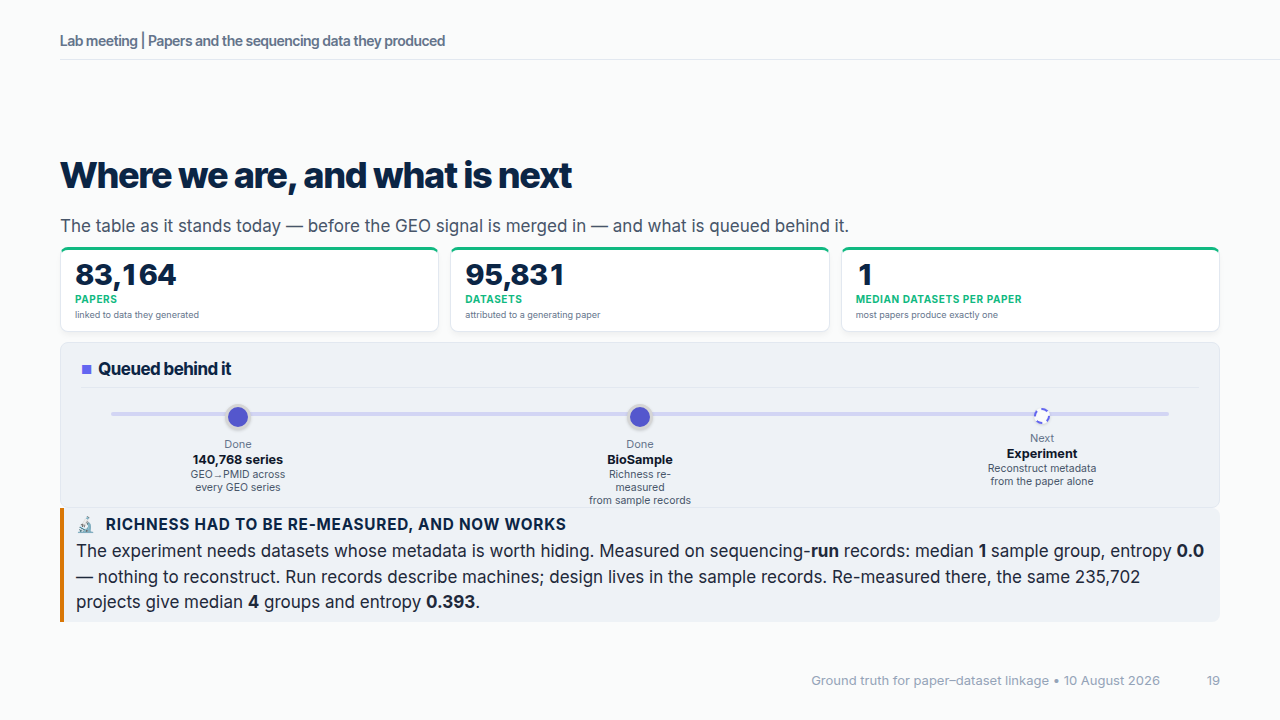
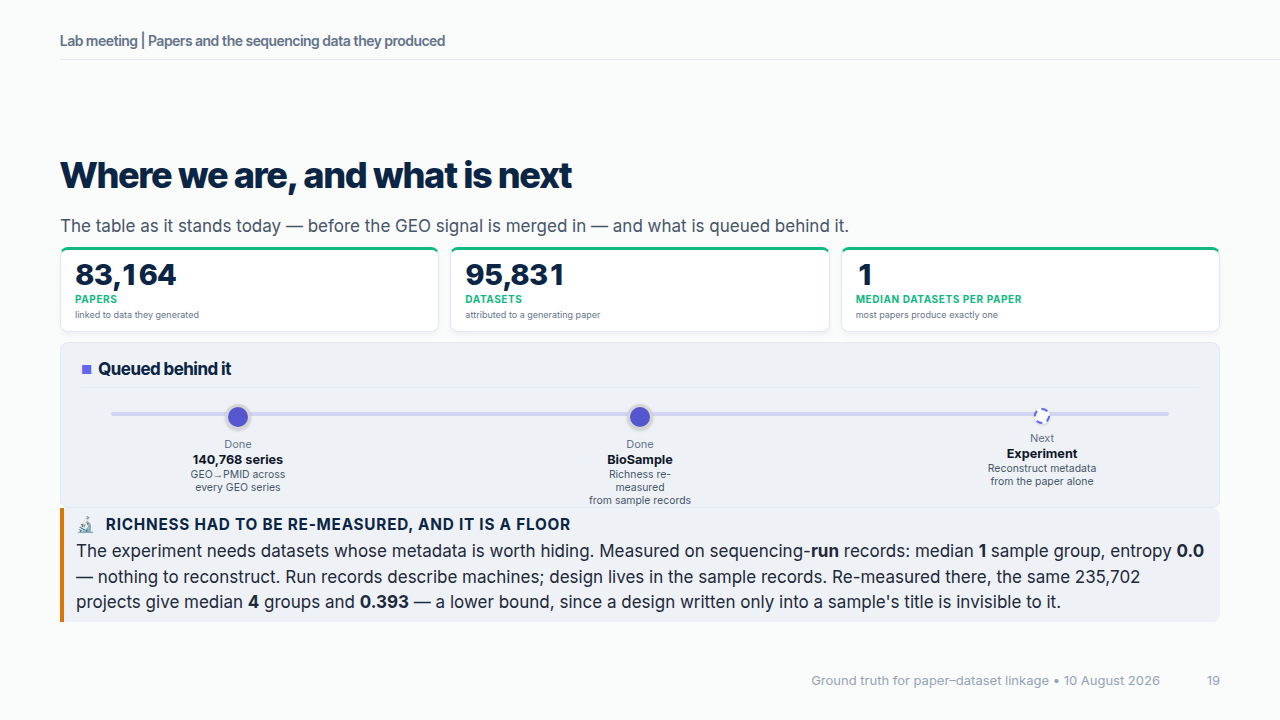
State richness as a lower bound rather than a solved measure
The callout claimed the rebuilt metric "now works". It does, but it scores
only what a submitter recorded as a structured attribute: two of five
hand-checked projects encode their design solely in the sample title or
alias and score one group, and EBI-registered projects run at a median of 2
groups against 5 for NCBI-registered, which is a checklist difference rather
than a biological one.

A deck with a slide about being misled by its own numbers should not present
this one without its limit. Speaker notes carry the answer to the obvious
challenge - group count correlates 0.75 with sample count, but a variant
dropping within-project-unique keys still leaves a median of 3.

Claude-Session: https://claude.ai/code/session_0132So3vgYGTUnnnkLxtwVmc

Changed region(s): [[0.2812, 0.825, 0.8438, 0.8556], [0.3438, 0.7028, 0.4375, 0.7333]]

diff --git a/paper_sra_linkage_Aug_2026/slides.html b/paper_sra_linkage_Aug_2026/slides.html
@@ -216,7 +216,7 @@
 
 <h1 id="where-we-are-and-what-is-next">Where we are, and what is next</h1>
 <p>The table as it stands today — before the GEO signal is merged in — and what is queued behind it.</p>
-<div class="stats accent-emerald tight" style="--cols:3"><div class="stat"><span class="stat-value">83,164</span><span class="stat-label">papers</span><span class="stat-note">linked to data they generated</span></div><div class="stat"><span class="stat-value">95,831</span><span class="stat-label">datasets</span><span class="stat-note">attributed to a generating paper</span></div><div class="stat"><span class="stat-value">1</span><span class="stat-label">median datasets per paper</span><span class="stat-note">most papers produce exactly one</span></div></div><div class="timeline"><div class="track accent-indigo"><div class="track-header"><div class="track-title">Queued behind it</div></div><div class="track-lane"><div class="node node-lg" style="--x:12%"><div class="node-dot"></div><div class="node-info">Done<span class="node-value">140,768 series</span><span class="node-note">GEO→PMID across<br />every GEO series</span></div></div><div class="node node-lg" style="--x:50%"><div class="node-dot"></div><div class="node-info">Done<span class="node-value">BioSample</span><span class="node-note">Richness re-measured<br />from sample records</span></div></div><div class="node node-open" style="--x:88%"><div class="node-dot"></div><div class="node-info">Next<span class="node-value">Experiment</span><span class="node-note">Reconstruct metadata<br />from the paper alone</span></div></div></div></div></div><div class="callout accent-amber callout-slim"><div class="callout-title"><span>🔬</span><span>Richness had to be re-measured, and now works</span></div><div class="callout-body"><p>The experiment needs datasets whose metadata is worth hiding. Measured on sequencing-<strong>run</strong> records: median <strong>1</strong> sample group, entropy <strong>0.0</strong> — nothing to reconstruct. Run records describe machines; design lives in the sample records. Re-measured there, the same 235,702 projects give median <strong>4</strong> groups and entropy <strong>0.393</strong>.</p>
+<div class="stats accent-emerald tight" style="--cols:3"><div class="stat"><span class="stat-value">83,164</span><span class="stat-label">papers</span><span class="stat-note">linked to data they generated</span></div><div class="stat"><span class="stat-value">95,831</span><span class="stat-label">datasets</span><span class="stat-note">attributed to a generating paper</span></div><div class="stat"><span class="stat-value">1</span><span class="stat-label">median datasets per paper</span><span class="stat-note">most papers produce exactly one</span></div></div><div class="timeline"><div class="track accent-indigo"><div class="track-header"><div class="track-title">Queued behind it</div></div><div class="track-lane"><div class="node node-lg" style="--x:12%"><div class="node-dot"></div><div class="node-info">Done<span class="node-value">140,768 series</span><span class="node-note">GEO→PMID across<br />every GEO series</span></div></div><div class="node node-lg" style="--x:50%"><div class="node-dot"></div><div class="node-info">Done<span class="node-value">BioSample</span><span class="node-note">Richness re-measured<br />from sample records</span></div></div><div class="node node-open" style="--x:88%"><div class="node-dot"></div><div class="node-info">Next<span class="node-value">Experiment</span><span class="node-note">Reconstruct metadata<br />from the paper alone</span></div></div></div></div></div><div class="callout accent-amber callout-slim"><div class="callout-title"><span>🔬</span><span>Richness had to be re-measured, and it is a floor</span></div><div class="callout-body"><p>The experiment needs datasets whose metadata is worth hiding. Measured on sequencing-<strong>run</strong> records: median <strong>1</strong> sample group, entropy <strong>0.0</strong> — nothing to reconstruct. Run records describe machines; design lives in the sample records. Re-measured there, the same 235,702 projects give median <strong>4</strong> groups and <strong>0.393</strong> — a lower bound, since a design written only into a sample's title is invisible to it.</p>
 </div></div><footer>Ground truth for paper–dataset linkage • 10 August 2026</footer>
 </section>
 </foreignObject></svg><svg data-marpit-svg="" viewBox="0 0 1280 720"><foreignObject width="1280" height="720"><section id="20" data-paginate="true" data-header="Lab meeting | Papers and the sequencing data they produced" data-footer="Ground truth for paper–dataset linkage • 10 August 2026" data-class="compact middle" data-theme="deckkit" lang="en-US" class="compact middle" data-marpit-pagination="20" style="--paginate:true;--header:Lab meeting | Papers and the sequencing data they produced;--footer:Ground truth for paper–dataset linkage • 10 August 2026;--class:compact middle;--theme:deckkit;" data-marpit-pagination-total="20" data-size="16:9">
@@ -243,6 +243,18 @@ belonged to, and GEO kept it. Expect the 2.3%-vs-88% question from the floor —
 the note answers it, so read it out rather than waiting to be asked.</p></div><div class="bespoke-marp-note" data-index="14" tabindex="0"><p>The null distribution matters: pair papers with datasets they have nothing to do
 with, and only 0.8% clear the threshold. Common surnames do not manufacture
 matches.</p></div><div class="bespoke-marp-note" data-index="17" tabindex="0"><p>Say this out loud rather than letting someone find it. The 7/7 and 8/8 are the
-weakest numbers in the talk and the most likely to be quoted back.</p></div><div class="bespoke-marp-note" data-index="19" tabindex="0"><p>If people remember one thing: mentioning is not producing, and the evidence that
+weakest numbers in the talk and the most likely to be quoted back.</p></div><div class="bespoke-marp-note" data-index="18" tabindex="0"><p>Expect: &quot;isn't that just sample count?&quot; Partly — group count and sample count
+correlate at 0.75. But a stricter variant that drops keys unique within a
+project still leaves a median of 3 groups, so it is not merely size restated.
+Give the number rather than waving it off.
+
+Five projects were checked by hand. Three matched exactly, including a 2x2 of
+cell line by treatment. Two scored 1 group because the design was written only
+in the sample title or alias. That also explains an archive skew: EBI-registered
+projects median 2 groups against 5 for NCBI-registered — submission checklists,
+not biology.
+
+83,164 here is deliberately the pre-merge number, and the lead says so. If asked
+why it is not 138,192, that is the projection from the previous slide.</p></div><div class="bespoke-marp-note" data-index="19" tabindex="0"><p>If people remember one thing: mentioning is not producing, and the evidence that
 settles it usually lives in the archive rather than in the paper.</p></div><script>/*!! License: https://unpkg.com/@marp-team/marp-cli@4.5.0/lib/bespoke.js.LICENSE.txt */
 !function(){"use strict";function e(e){return e&&e.__esModule&&Object.prototype.hasOwnProperty.call(e,"default")?e.default:e}var t,n,r=(n||(n=1,t={from:function(e,t){var n,r=1===(e.parent||e).nodeType?e.parent||e:document.querySelector(e.parent||e),o=[].filter.call("string"==typeof e.slides?r.querySelectorAll(e.slides):e.slides||r.children,function(e){return"SCRIPT"!==e.nodeName}),i={},a=function(e,t){return(t=t||{}).index=o.indexOf(e),t.slide=e,t},s=function(e,t){i[e]=(i[e]||[]).filter(function(e){return e!==t})},l=function(e,t){return(i[e]||[]).reduce(function(e,n){return e&&!1!==n(t)},!0)},c=function(e,t){o[e]&&(n&&l("deactivate",a(n,t)),n=o[e],l("activate",a(n,t)))},d=function(e,t){var r=o.indexOf(n)+e;l(e>0?"next":"prev",a(n,t))&&c(r,t)},u={off:s,on:function(e,t){return(i[e]||(i[e]=[])).push(t),s.bind(null,e,t)},fire:l,slide:function(e,t){if(!arguments.length)return o.indexOf(n);l("slide",a(o[e],t))&&c(e,t)},next:d.bind(null,1),prev:d.bind(null,-1),parent:r,slides:o,destroy:function(e){l("destroy",a(n,e)),i={}}};return(t||[]).forEach(function(e){e(u)}),n||c(0),u}}),t),o=e(r);const i=document.body,a=(...e)=>history.replaceState(...e),s="",l="presenter",c="next",d="overview",u=["",l,d,c],f="bespoke-marp-",m=`data-${f}`,g=(e,{protocol:t,host:n,pathname:r,hash:o}=location)=>{const i=e.toString();return`${t}//${n}${r}${i?"?":""}${i}${o}`},p=()=>i.dataset.bespokeView,v=e=>new URLSearchParams(location.search).get(e),h=(e,t={})=>{const n={location,setter:a,...t},r=new URLSearchParams(n.location.search);for(const t of Object.keys(e)){const n=e[t];"string"==typeof n?r.set(t,n):r.delete(t)}try{n.setter({...window.history.state??{}},"",g(r,n.location))}catch(e){console.error(e)}},w=(()=>{const e="bespoke-marp";try{return localStorage.setItem(e,e),localStorage.removeItem(e),!0}catch{return!1}})(),y=e=>{try{return localStorage.getItem(e)}catch{return null}},b=(e,t)=>{try{return localStorage.setItem(e,t),!0}catch{return!1}},k=e=>{try{return localStorage.removeItem(e),!0}catch{return!1}},x=(e,t)=>{const n="aria-hidden";t?e.setAttribute(n,"true"):e.removeAttribute(n)},E=e=>{e.parent.classList.add(`${f}parent`),e.slides.forEach(e=>e.classList.add(`${f}slide`)),e.on("activate",t=>{const n=`${f}active`,r=t.slide,o=r.classList,i=!o.contains(n);if(e.slides.forEach(e=>{e.classList.remove(n),x(e,!0)}),o.add(n),x(r,!1),i){const e=`${n}-ready`;o.add(e),document.body.clientHeight,o.remove(e)}})},$=e=>{let t=0,n=0;Object.defineProperty(e,"fragments",{enumerable:!0,value:e.slides.map(e=>[null,...e.querySelectorAll("[data-marpit-fragment]")])});const r=r=>void 0!==e.fragments[t][n+r],o=(r,o)=>{t=r,n=o,e.fragments.forEach((e,t)=>{e.forEach((e,n)=>{if(null==e)return;const i=t<r||t===r&&n<=o;e.setAttribute(`${m}fragment`,(i?"":"in")+"active");const a=`${m}current-fragment`;t===r&&n===o?e.setAttribute(a,"current"):e.removeAttribute(a)})}),e.fragmentIndex=o;const i={slide:e.slides[r],index:r,fragments:e.fragments[r],fragmentIndex:o};e.fire("fragment",i)};e.on("next",({fragment:i=!0})=>{if(i){if(r(1))return o(t,n+1),!1;const i=t+1;e.fragments[i]&&o(i,0)}else{const r=e.fragments[t].length;if(n+1<r)return o(t,r-1),!1;const i=e.fragments[t+1];i&&o(t+1,i.length-1)}}),e.on("prev",({fragment:i=!0})=>{if(r(-1)&&i)return o(t,n-1),!1;const a=t-1;e.fragments[a]&&o(a,e.fragments[a].length-1)}),e.on("slide",({index:t,fragment:n})=>{let r=0;if(void 0!==n){const o=e.fragments[t];if(o){const{length:e}=o;r=-1===n?e-1:Math.min(Math.max(n,0),e-1)}}o(t,r)}),o(0,0)},L=document,S=()=>!(!L.fullscreenEnabled&&!L.webkitFullscreenEnabled),P=()=>!(!L.fullscreenElement&&!L.webkitFullscreenElement),_=e=>{e.fullscreen=()=>{S()&&(async()=>{P()?(L.exitFullscreen||L.webkitExitFullscreen)?.call(L):((e=L.body)=>{(e.requestFullscreen||e.webkitRequestFullscreen)?.call(e)})()})()},document.addEventListener("keydown",t=>{"f"!==t.key&&"F11"!==t.key||t.altKey||t.ctrlKey||t.metaKey||!S()||(e.fullscreen(),t.preventDefault())})},O=`${f}inactive`,T=(e=2e3)=>({parent:t,fire:n})=>{const r=t.classList,o=e=>n(`marp-${e?"":"in"}active`);let i;const a=()=>{i&&clearTimeout(i),i=setTimeout(()=>{r.add(O),o()},e),r.contains(O)&&(r.remove(O),o(!0))};for(const e of["mousedown","mousemove","touchend"])document.addEventListener(e,a);setTimeout(a,0)},I=["AUDIO","BUTTON","INPUT","SELECT","TEXTAREA","VIDEO"],M=e=>{e.parent.addEventListener("keydown",e=>{if(!e.target)return;const t=e.target;(I.includes(t.nodeName)||"true"===t.contentEditable)&&e.stopPropagation()})},A=e=>{window.addEventListener("load",()=>{for(const t of e.slides){const e=t.querySelector("marp-auto-scaling, [data-auto-scaling], [data-marp-fitting]");t.setAttribute(`${m}load`,e?"":"hideable")}})},C=({interval:e=250}={})=>t=>{document.addEventListener("keydown",e=>{if(" "===e.key&&e.shiftKey)t.prev();else if("ArrowLeft"===e.key||"ArrowUp"===e.key||"PageUp"===e.key)t.prev({fragment:!e.shiftKey});else if(" "!==e.key||e.shiftKey)if("ArrowRight"===e.key||"ArrowDown"===e.key||"PageDown"===e.key)t.next({fragment:!e.shiftKey});else if("End"===e.key)t.slide(t.slides.length-1,{fragment:-1});else{if("Home"!==e.key)return;t.slide(0)}else t.next();e.preventDefault()});let n,r,o=0;t.parent.addEventListener("wheel",i=>{let a=!1;const s=(e,t)=>{e&&(a=a||((e,t)=>((e,t)=>{const n="X"===t?"Width":"Height";return e[`client${n}`]<e[`scroll${n}`]})(e,t)&&((e,t)=>{const{overflow:n}=e,r=e[`overflow${t}`];return"auto"===n||"scroll"===n||"auto"===r||"scroll"===r})(getComputedStyle(e),t))(e,t)),e?.parentElement&&s(e.parentElement,t)};if(0!==i.deltaX&&s(i.target,"X"),0!==i.deltaY&&s(i.target,"Y"),a)return;i.preventDefault();const l=Math.sqrt(i.deltaX**2+i.deltaY**2);if(void 0!==i.wheelDelta){if(void 0===i.webkitForce&&Math.abs(i.wheelDelta)<40)return;if(i.deltaMode===i.DOM_DELTA_PIXEL&&l<4)return}else if(i.deltaMode===i.DOM_DELTA_PIXEL&&l<12)return;r&&clearTimeout(r),r=setTimeout(()=>{n=0},e);const c=Date.now()-o<e,d=l<=n;if(n=l,c||d)return;let u;(i.deltaX>0||i.deltaY>0)&&(u="next"),(i.deltaX<0||i.deltaY<0)&&(u="prev"),u&&(t[u](),o=Date.now())})},D=(e=`.${f}osc`)=>{const t=document.querySelector(e);if(!t)return()=>{};const n=(e,n)=>{t.querySelectorAll(`[${m}osc=${JSON.stringify(e)}]`).forEach(n)};if(S()||n("fullscreen",e=>e.style.display="none"),!w){const e=(e,t)=>{e.disabled=!0,e.title=`${t} is disabled due to restricted localStorage.`};n("presenter",t=>e(t,"Presenter view")),n("overview",t=>e(t,"Overview view"))}return e=>{t.addEventListener("click",t=>{if(t.target instanceof HTMLElement){const{bespokeMarpOsc:n}=t.target.dataset;n&&t.target.blur();const r={fragment:!t.shiftKey};"next"===n?e.next(r):"prev"===n?e.prev(r):"fullscreen"===n?e?.fullscreen():"presenter"===n?e.openPresenterView():"overview"===n&&e.toggleOverviewView()}}),e.parent.appendChild(t),e.on("activate",({index:t})=>{n("page",n=>n.textContent=`Page ${t+1} of ${e.slides.length}`)}),e.on("fragment",({index:t,fragments:r,fragmentIndex:o})=>{n("prev",e=>e.disabled=0===t&&0===o),n("next",n=>n.disabled=t===e.slides.length-1&&o===r.length-1)}),e.on("marp-active",()=>x(t,!1)),e.on("marp-inactive",()=>x(t,!0)),S()&&(e=>{for(const t of["","webkit"])L.addEventListener(t+"fullscreenchange",e)})(()=>n("fullscreen",e=>e.classList.toggle("exit",S()&&P())))}},N=e=>{if(e.syncKey&&"string"==typeof e.syncKey)return!0;throw new Error("The current instance of Bespoke.js is incompatible with Marp bespoke sync plugin.")},B=(e={})=>{const t=e.key||window.history.state?.marpBespokeSyncKey||Math.random().toString(36).slice(2),n=`bespoke-marp-sync-${t}`;var r;r={marpBespokeSyncKey:t},h({},{setter:(e,...t)=>a({...e,...r},...t)});const o=()=>{const e=y(n);return e?JSON.parse(e):Object.create(null)},i=e=>{const t=o(),r={...t,...e(t)};return b(n,JSON.stringify(r)),r},s=()=>{window.removeEventListener("pageshow",s),i(e=>({reference:(e.reference||0)+1}))};return e=>{s(),Object.defineProperty(e,"syncKey",{value:t,enumerable:!0});let r=!0;setTimeout(()=>{e.on("fragment",e=>{r&&i(()=>({index:e.index,fragmentIndex:e.fragmentIndex}))})},0),window.addEventListener("storage",t=>{if(t.key===n&&t.oldValue&&t.newValue){const n=JSON.parse(t.oldValue),o=JSON.parse(t.newValue);if(n.index!==o.index||n.fragmentIndex!==o.fragmentIndex)try{r=!1,e.slide(o.index,{fragment:o.fragmentIndex,forSync:!0})}finally{r=!0}}});const a=()=>{const{reference:e}=o();void 0===e||e<=1?k(n):i(()=>({reference:e-1}))};window.addEventListener("pagehide",e=>{e.persisted&&window.addEventListener("pageshow",s),a()}),e.on("destroy",a)}},K=e=>{w&&document.addEventListener("keydown",t=>{("o"!==t.key||t.altKey||t.ctrlKey||t.metaKey)&&"Escape"!==t.key||(t.preventDefault(),e())})};let q=null;const V=({closeOnSelect:e=!0}={})=>t=>{N(t);const n=n=>{const r=(()=>{if(!q||!q.isConnected){q=document.createElement("div"),q.className=`${f}overview`,q.inert=!0;const n=document.createElement("iframe");n.src=(()=>{const n=new URLSearchParams(location.search);return n.set("view","overview"),n.set("sync",t.syncKey),e&&n.set("closeOnSelect","1"),g(n)})(),q.append(n),document.body.append(q)}return q})(),o=n??!r.dataset.open;setTimeout(()=>{if(r.dataset.open=o?"1":"",r.inert=!o,t.skipTransition=o,o){const e=r.querySelector("iframe");try{e?.contentWindow?.focus()}catch{e?.focus()}}else window.focus()},0)};Object.defineProperties(t,{toggleOverviewView:{enumerable:!0,value:n}}),window.addEventListener("message",e=>{e.origin===window.origin&&"closeOverview"===e.data&&n(!1)}),K(n)},j=e=>{const{title:t}=document;document.title="[Overview]"+(t?` - ${t}`:"");const n=!!v("closeOnSelect"),r=()=>{window.parent.postMessage("closeOverview","null"===window.origin?"*":window.origin)};if(e.slides.forEach((t,o)=>{t.tabIndex=0;const i=()=>{e.slide(o,{fragment:-1}),n&&r()};t.addEventListener("click",i),t.addEventListener("keydown",e=>{"Enter"!==e.key&&" "!==e.key||(e.preventDefault(),i())})}),window.addEventListener("keydown",t=>{const n=e.slide(),r=t=>{const r=t=>{const n=e.slides[t].getBoundingClientRect();return[Math.round((n.left+n.right)/2),Math.round((n.top+n.bottom)/2)]};let o=null,i=n;do{const e=r(i);if(o){if(Math.abs(e[0]-o[0])<2)return i}else o=e;i+=t}while(i>=0&&i<e.slides.length);return n};if("ArrowLeft"===t.key)e.slide(Math.max(n-1,0),{fragment:-1});else if("ArrowRight"===t.key)e.slide(Math.min(n+1,e.slides.length-1),{fragment:-1});else if("ArrowUp"===t.key)e.slide(r(-1),{fragment:-1});else if("ArrowDown"===t.key)e.slide(r(1),{fragment:-1});else if("End"===t.key)e.slide(e.slides.length-1,{fragment:-1});else{if("Home"!==t.key)return;e.slide(0,{fragment:-1})}t.preventDefault();const o=e.slide();e.slides[o]?.focus?.(),e.slides[o]?.scrollIntoView?.({behavior:"smooth",block:"nearest"})}),e.on("slide",({index:t})=>{e.slides[t]?.scrollIntoView?.({behavior:"smooth",block:"nearest"})}),window.parent!==window){K(r);const e=document.createElement("header");e.className=`${f}overview-header`;const t=document.createElement("button");t.className=`${f}overview-close`,t.type="button",t.title="Close overview",t.textContent=t.title,t.addEventListener("click",r),e.append(t),document.body.prepend(e)}},F=()=>{const e=p();return{[s]:V(),[l]:V({closeOnSelect:!1}),[d]:j}[e]},U=e=>{window.addEventListener("message",t=>{if(t.origin!==window.origin)return;const[n,r]=t.data.split(":");if("navigate"===n){const[t,n]=r.split(",");let o=Number.parseInt(t,10),i=Number.parseInt(n,10)+1;i>=e.fragments[o].length&&(o+=1,i=0),e.slide(o,{fragment:i})}})};var R,X,H,W,J,Y,z,G={exports:{}},Q=(R||(R=1,G.exports=(X=["area","base","br","col","command","embed","hr","img","input","keygen","link","meta","param","source","track","wbr"],H=function(e){return String(e).replace(/[&<>"']/g,function(e){return"&"+W[e]+";"})},W={"&":"amp","<":"lt",">":"gt",'"':"quot","'":"apos"},J="dangerouslySetInnerHTML",Y={className:"class",htmlFor:"for"},z={},function(e,t){var n=[],r="";t=t||{};for(var o=arguments.length;o-- >2;)n.push(arguments[o]);if("function"==typeof e)return t.children=n.reverse(),e(t);if(e){if(r+="<"+e,t)for(var i in t)!1!==t[i]&&null!=t[i]&&i!==J&&(r+=" "+(Y[i]?Y[i]:H(i))+'="'+H(t[i])+'"');r+=">"}if(-1===X.indexOf(e)){if(t[J])r+=t[J].__html;else for(;n.length;){var a=n.pop();if(a)if(a.pop)for(var s=a.length;s--;)n.push(a[s]);else r+=!0===z[a]?a:H(a)}r+=e?"</"+e+">":""}return z[r]=!0,r})),G.exports),Z=e(Q);const ee=({children:e})=>Z(null,null,...e),te=`${f}presenter-`,ne={container:`${te}container`,dragbar:`${te}dragbar-container`,next:`${te}next`,nextContainer:`${te}next-container`,noteContainer:`${te}note-container`,noteWrapper:`${te}note-wrapper`,noteButtons:`${te}note-buttons`,infoContainer:`${te}info-container`,infoPageArea:`${te}info-page-area`,infoPage:`${te}info-page`,infoPagePrev:`${te}info-page-prev`,infoPageNext:`${te}info-page-next`,noteButtonsBigger:`${te}note-bigger`,noteButtonsSmaller:`${te}note-smaller`,infoTime:`${te}info-time`,infoTimer:`${te}info-timer`},re=e=>{const{title:t}=document;document.title="[Presenter view]"+(t?` - ${t}`:"");const n={},r=e=>(n[e]=n[e]||document.querySelector(`.${e}`),n[e]);document.body.appendChild((e=>{const t=document.createElement("div");return t.className=ne.container,t.appendChild(e),t.insertAdjacentHTML("beforeend",Z(ee,null,Z("div",{class:ne.nextContainer},Z("iframe",{class:ne.next,src:"?view=next"})),Z("div",{class:ne.dragbar}),Z("div",{class:ne.noteContainer},Z("div",{class:ne.noteWrapper}),Z("div",{class:ne.noteButtons},Z("button",{class:ne.noteButtonsSmaller,tabindex:"-1",title:"Smaller notes font size"},"Smaller notes font size"),Z("button",{class:ne.noteButtonsBigger,tabindex:"-1",title:"Bigger notes font size"},"Bigger notes font size"))),Z("div",{class:ne.infoContainer},Z("div",{class:ne.infoPageArea},Z("button",{class:ne.infoPagePrev,tabindex:"-1",title:"Previous"},"Previous"),Z("button",{class:ne.infoPage}),Z("button",{class:ne.infoPageNext,tabindex:"-1",title:"Next"},"Next")),Z("time",{class:ne.infoTime,title:"Current time"}),Z("time",{class:ne.infoTimer,title:"Timer"})))),t})(e.parent)),(e=>{let t=!1;r(ne.dragbar).addEventListener("mousedown",()=>{t=!0,r(ne.dragbar).classList.add("active")}),window.addEventListener("mouseup",()=>{t=!1,r(ne.dragbar).classList.remove("active")}),window.addEventListener("mousemove",e=>{if(!t)return;const n=e.clientX/document.documentElement.clientWidth*100;r(ne.container).style.setProperty("--bespoke-marp-presenter-split-ratio",`${Math.max(0,Math.min(100,n))}%`)}),r(ne.nextContainer).addEventListener("click",()=>e.next());const n=r(ne.next),o=(i=n,(e,t)=>i.contentWindow?.postMessage(`navigate:${e},${t}`,"null"===window.origin?"*":window.origin));var i;n.addEventListener("load",()=>{r(ne.nextContainer).classList.add("active"),o(e.slide(),e.fragmentIndex),e.on("fragment",({index:e,fragmentIndex:t})=>o(e,t))});const a=document.querySelectorAll(".bespoke-marp-note");a.forEach(e=>{e.addEventListener("keydown",e=>e.stopPropagation()),r(ne.noteWrapper).appendChild(e)}),e.on("activate",()=>a.forEach(t=>t.classList.toggle("active",t.dataset.index==e.slide())));let s=0;const l=e=>{s=Math.max(-5,s+e),r(ne.noteContainer).style.setProperty("--bespoke-marp-note-font-scale",(1.2**s).toFixed(4))},c=()=>l(1),d=()=>l(-1),u=r(ne.noteButtonsBigger),f=r(ne.noteButtonsSmaller);u.addEventListener("click",()=>{u.blur(),c()}),f.addEventListener("click",()=>{f.blur(),d()}),document.addEventListener("keydown",e=>{"+"===e.key&&c(),"-"===e.key&&d()},!0);const m=r(ne.infoPage);e.on("activate",({index:t})=>{m.textContent=`${t+1} / ${e.slides.length}`}),m.addEventListener("click",()=>{m.blur(),e.toggleOverviewView()});const g=r(ne.infoPagePrev),p=r(ne.infoPageNext);g.addEventListener("click",t=>{g.blur(),e.prev({fragment:!t.shiftKey})}),p.addEventListener("click",t=>{p.blur(),e.next({fragment:!t.shiftKey})}),e.on("fragment",({index:t,fragments:n,fragmentIndex:r})=>{g.disabled=0===t&&0===r,p.disabled=t===e.slides.length-1&&r===n.length-1});let v=new Date;const h=()=>{const e=new Date,t=e=>`${Math.floor(e)}`.padStart(2,"0"),n=e.getTime()-v.getTime(),o=t(n/1e3%60),i=t(n/1e3/60%60),a=t(n/36e5%24);r(ne.infoTime).textContent=e.toLocaleTimeString(),r(ne.infoTimer).textContent=`${a}:${i}:${o}`};h(),setInterval(h,250),r(ne.infoTimer).addEventListener("click",()=>{v=new Date})})(e)},oe=e=>{N(e),Object.defineProperties(e,{openPresenterView:{enumerable:!0,value:ie},presenterUrl:{enumerable:!0,get:ae}}),w&&document.addEventListener("keydown",t=>{"p"!==t.key||t.altKey||t.ctrlKey||t.metaKey||(t.preventDefault(),e.openPresenterView())})};function ie(){const{max:e,floor:t}=Math,n=e(t(.85*window.innerWidth),640),r=e(t(.85*window.innerHeight),360);return window.open(this.presenterUrl,te+this.syncKey,`width=${n},height=${r},menubar=no,toolbar=no`)}function ae(){const e=new URLSearchParams(location.search);return e.set("view","presenter"),e.set("sync",this.syncKey),g(e)}const se=e=>{const t=p();return t===c&&e.appendChild(document.createElement("span")),{[s]:oe,[l]:re,[c]:U}[t]},le=e=>{e.on("activate",t=>{document.querySelectorAll(".bespoke-progress-parent > .bespoke-progress-bar").forEach(n=>{n.style.flexBasis=100*t.index/(e.slides.length-1)+"%"})})},ce=e=>{const t=Number.parseInt(e,10);return Number.isNaN(t)?null:t},de=(e={})=>{const t={history:!0,...e};return e=>{let n=!0;const r=e=>{const t=n;try{return n=!0,e()}finally{n=t}},o=(t={fragment:!0})=>{let n=t.fragment?ce(v("f")||""):null;((t,n)=>{const{min:r,max:o}=Math,{fragments:i,slides:a}=e,s=o(0,r(t,a.length-1)),l=o(0,r(n||0,i[s].length-1));s===e.slide()&&l===e.fragmentIndex||e.slide(s,{fragment:l})})((()=>{if(location.hash){const[t]=location.hash.slice(1).split(":~:");if(/^\d+$/.test(t))return(ce(t)??1)-1;const r=document.getElementById(t)||document.querySelector(`a[name="${CSS.escape(t)}"]`);if(r){const{length:t}=e.slides;for(let o=0;o<t;o+=1)if(e.slides[o].contains(r)){const t=e.fragments?.[o],i=r.closest("[data-marpit-fragment]");if(t&&i){const e=t.indexOf(i);e>=0&&(n=e)}return o}}}return 0})(),n)};e.on("fragment",({index:e,fragmentIndex:r})=>{n||h({f:0===r||r.toString()},{location:{...location,hash:`#${e+1}`},setter:(...e)=>t.history?history.pushState(...e):history.replaceState(...e)})}),setTimeout(()=>{o(),window.addEventListener("hashchange",()=>r(()=>{o({fragment:!1}),h({f:void 0})})),window.addEventListener("popstate",()=>{n||r(()=>o())}),n=!1},0)}},{PI:ue,abs:fe,sqrt:me,atan2:ge}=Math,pe={passive:!0},ve=({slope:e=-.7,swipeThreshold:t=30}={})=>n=>{let r;const o=n.parent,i=e=>{const t=o.getBoundingClientRect();return{x:e.pageX-(t.left+t.right)/2,y:e.pageY-(t.top+t.bottom)/2}};o.addEventListener("touchstart",({touches:e})=>{r=1===e.length?i(e[0]):void 0},pe),o.addEventListener("touchmove",e=>{if(r)if(1===e.touches.length){e.preventDefault();const t=i(e.touches[0]),n=t.x-r.x,o=t.y-r.y;r.delta=me(fe(n)**2+fe(o)**2),r.radian=ge(n,o)}else r=void 0}),o.addEventListener("touchend",o=>{if(r){if(r.delta&&r.delta>=t&&r.radian){const t=(r.radian-e+ue)%(2*ue)-ue;n[t<0?"next":"prev"](),o.stopPropagation()}r=void 0}},pe)},he=new Map;he.clear(),he.set("none",{backward:{both:void 0,incoming:void 0,outgoing:void 0},forward:{both:void 0,incoming:void 0,outgoing:void 0}});const we={both:"",outgoing:"outgoing-",incoming:"incoming-"},ye={forward:"",backward:"-backward"},be=e=>`--marp-bespoke-transition-animation-${e}`,ke=e=>`--marp-transition-${e}`,xe=be("name"),Ee=be("duration"),$e=e=>new Promise(t=>{const n={},r=document.createElement("div"),o=e=>{r.remove(),t(e)};r.addEventListener("animationstart",()=>o(n)),Object.assign(r.style,{animationName:e,animationDuration:"1s",animationFillMode:"both",animationPlayState:"paused",position:"absolute",pointerEvents:"none"}),document.body.appendChild(r);const i=getComputedStyle(r).getPropertyValue(ke("duration"));i&&Number.parseFloat(i)>=0&&(n.defaultDuration=i),((e,t)=>{requestAnimationFrame(()=>{e.style.animationPlayState="running",requestAnimationFrame(()=>t(void 0))})})(r,o)}),Le=async e=>he.has(e)?he.get(e):(e=>{const t={},n=[];for(const[r,o]of Object.entries(we))for(const[i,a]of Object.entries(ye)){const s=`marp-${o}transition${a}-${e}`;n.push($e(s).then(e=>{t[i]=t[i]||{},t[i][r]=e?{...e,name:s}:void 0}))}return Promise.all(n).then(()=>t)})(e).then(t=>(he.set(e,t),t)),Se=e=>Object.values(e).flatMap(Object.values).every(e=>!e),Pe=(e,{type:t,backward:n})=>{const r=e[n?"backward":"forward"],o=(()=>{const e=r[t],n=e=>({[xe]:e.name});if(e)return n(e);if(r.both){const e=n(r.both);return"incoming"===t&&(e[be("direction")]="reverse"),e}})();return!o&&n?Pe(e,{type:t,backward:!1}):o||{[xe]:"__bespoke_marp_transition_no_animation__"}},_e=e=>{if(e)try{const t=JSON.parse(e);if((e=>{if("object"!=typeof e)return!1;const t=e;return"string"==typeof t.name&&(void 0===t.duration||"string"==typeof t.duration)})(t))return t}catch{}},Oe="_tSId",Te="_tA",Ie="bespoke-marp-transition-warming-up",Me=window.matchMedia("(prefers-reduced-motion: reduce)"),Ae="__bespoke_marp_transition_reduced_outgoing__",Ce="__bespoke_marp_transition_reduced_incoming__",De={forward:{both:void 0,incoming:{name:Ce},outgoing:{name:Ae}},backward:{both:void 0,incoming:{name:Ce},outgoing:{name:Ae}}},Ne=e=>{if(!document.startViewTransition)return;const t=t=>(void 0!==t&&(e._tD=t),e._tD);let n;t(!1),((...e)=>{CSS.registerProperty({name:ke("duration"),syntax:"<time>",inherits:!0,initialValue:"-1s"});const t=[...new Set(e).values()];return Promise.all(t.map(e=>Le(e))).then()})(...Array.from(document.querySelectorAll("section[data-transition], section[data-transition-back]")).flatMap(e=>[e.dataset.transition,e.dataset.transitionBack].flatMap(e=>{const t=_e(e);return[t?.name,t?.builtinFallback?`__builtin__${t.name}`:void 0]}).filter(e=>!!e))).then(()=>{document.querySelectorAll("style").forEach(e=>{e.innerHTML=e.innerHTML.replace(/--marp-transition-duration:[^;}]*[;}]/g,e=>e.slice(0,-1)+"!important"+e.slice(-1))})});const r=(n,{back:r,cond:o})=>i=>{const a=t();if(a)return!!i[Te]||!("object"!=typeof a||(a.skipTransition(),!i.forSync));if(e.skipTransition)return!0;if(!o(i))return!0;const s=e.slides[e.slide()],l=()=>i.back??r,c="data-transition"+(l()?"-back":""),d=s.querySelector(`section[${c}]`);if(!d)return!0;const u=_e(d.getAttribute(c)??void 0);return!u||((async(e,{builtinFallback:t=!0}={})=>{let n=await Le(e);if(Se(n)){if(!t)return;return n=await Le(`__builtin__${e}`),Se(n)?void 0:n}return n})(u.name,{builtinFallback:u.builtinFallback}).then(e=>{if(!e){t(!0);try{n(i)}finally{t(!1)}return}let r=e;Me.matches&&(console.warn("Use a constant animation to transition because preferring reduced motion by viewer has detected."),r=De);const o=document.getElementById(Oe);o&&o.remove();const a=document.createElement("style");a.id=Oe,document.head.appendChild(a),((e,t)=>{const n=[`:root{${ke("direction")}:${t.backward?-1:1};}`,":root:has(.bespoke-marp-inactive){cursor:none;}"],r=t=>{const n=e[t].both?.defaultDuration||e[t].outgoing?.defaultDuration||e[t].incoming?.defaultDuration;return"forward"===t?n:n||r("forward")},o=t.duration||r(t.backward?"backward":"forward");void 0!==o&&n.push(`::view-transition-group(*){${Ee}:${o};}`);const i=e=>Object.entries(e).map(([e,t])=>`${e}:${t};`).join("");return n.push(`::view-transition-old(root){${i(Pe(e,{...t,type:"outgoing"}))}}`,`::view-transition-new(root){${i(Pe(e,{...t,type:"incoming"}))}}`),n})(r,{backward:l(),duration:u.duration}).forEach(e=>a.sheet?.insertRule(e));const s=document.documentElement.classList;s.add(Ie);let c=!1;const d=()=>{c||(n(i),c=!0,s.remove(Ie))},f=()=>{t(!1),a.remove(),s.remove(Ie)};try{t(!0);const e=document.startViewTransition(d);t(e),e.finished.finally(f)}catch(e){console.error(e),d(),f()}}),!1)};e.on("prev",r(t=>e.prev({...t,[Te]:!0}),{back:!0,cond:e=>e.index>0&&!((e.fragment??1)&&n.fragmentIndex>0)})),e.on("next",r(t=>e.next({...t,[Te]:!0}),{cond:t=>t.index+1<e.slides.length&&!(n.fragmentIndex+1<n.fragments.length)})),setTimeout(()=>{e.on("slide",r(t=>e.slide(t.index,{...t,[Te]:!0}),{cond:t=>{const n=e.slide();return t.index!==n&&(t.back=t.index<n,!0)}}))},0),e.on("fragment",e=>{n=e})};let Be;const Ke=()=>(void 0===Be&&(Be="wakeLock"in navigator&&navigator.wakeLock),Be),qe=async()=>{const e=Ke();if(e)try{return await e.request("screen")}catch(e){console.warn(e)}return null},Ve=async()=>{if(!Ke())return;let e;const t=()=>{e&&"visible"===document.visibilityState&&qe()};for(const e of["visibilitychange","fullscreenchange"])document.addEventListener(e,t);return e=await qe(),e};((e=document.getElementById(":$p"))=>{(()=>{const e=v("view");i.dataset.bespokeView=u.some(t=>t&&t===e)?e:""})();const t=(e=>{const t=v(e);return h({[e]:void 0}),t})("sync")||void 0;o.from(e,((...e)=>{const t=u.findIndex(e=>p()===e);return e.map(([e,n])=>e[t]&&n).filter(e=>e)})([[1,1,1,0],B({key:t})],[[1,1,0,1],se(e)],[[1,1,0,0],M],[[1,1,1,1],E],[[1,0,0,0],T()],[[1,1,1,1],A],[[1,1,1,1],de({history:!1})],[[1,1,0,0],C()],[[1,1,1,0],_],[[1,0,0,0],le],[[1,1,0,0],ve()],[[1,0,0,0],D()],[[1,1,1,0],F()],[[1,0,0,0],Ne],[[1,1,1,1],$],[[1,1,1,0],Ve]))})()}();</script></body></html>

diff --git a/paper_sra_linkage_Aug_2026/slides.md b/paper_sra_linkage_Aug_2026/slides.md
@@ -494,9 +494,25 @@ node: 50% | Done | BioSample | Richness re-measured // from sample records | lg
 node: 88% | Next | Experiment | Reconstruct metadata // from the paper alone | open
 ```
 
-::: callout title="Richness had to be re-measured, and now works" icon="🔬" accent=amber slim
-The experiment needs datasets whose metadata is worth hiding. Measured on sequencing-**run** records: median **1** sample group, entropy **0.0** — nothing to reconstruct. Run records describe machines; design lives in the sample records. Re-measured there, the same 235,702 projects give median **4** groups and entropy **0.393**.
+::: callout title="Richness had to be re-measured, and it is a floor" icon="🔬" accent=amber slim
+The experiment needs datasets whose metadata is worth hiding. Measured on sequencing-**run** records: median **1** sample group, entropy **0.0** — nothing to reconstruct. Run records describe machines; design lives in the sample records. Re-measured there, the same 235,702 projects give median **4** groups and **0.393** — a lower bound, since a design written only into a sample's title is invisible to it.
 :::
+
+<!--
+Expect: "isn't that just sample count?" Partly — group count and sample count
+correlate at 0.75. But a stricter variant that drops keys unique within a
+project still leaves a median of 3 groups, so it is not merely size restated.
+Give the number rather than waving it off.
+
+Five projects were checked by hand. Three matched exactly, including a 2x2 of
+cell line by treatment. Two scored 1 group because the design was written only
+in the sample title or alias. That also explains an archive skew: EBI-registered
+projects median 2 groups against 5 for NCBI-registered — submission checklists,
+not biology.
+
+83,164 here is deliberately the pre-merge number, and the lead says so. If asked
+why it is not 138,192, that is the projection from the previous slide.
+-->
 
 ---
 
